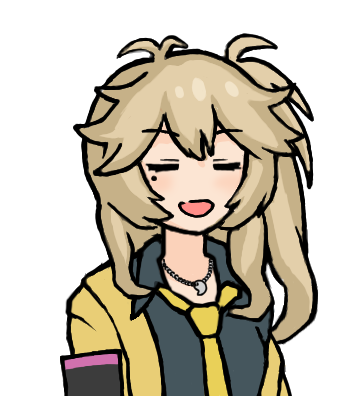
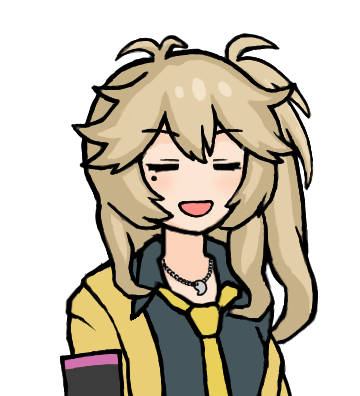
口の開閉を音量に合わせるよう改修した

diff --git a/funcs/audio.py b/funcs/audio.py
@@ -2,7 +2,8 @@ import requests
 import json
 from retry import retry
 from pydub import AudioSegment
-from funcs import SPK, get_wav_filename, prepare_serifu, file_to_hash
+from funcs import SPF, MOUTH_OPEN_RATIO, \
+    get_wav_filename, prepare_serifu, file_to_hash
 import os
 import math
 
@@ -59,11 +60,11 @@ class AudioGenerator:
     def generate(self):
         """各場面の台詞を wav に出力し全体を通した mp3 を出力しておきます
         """
-        komas = []  # 各場面の「有音コマ数、無音コマ数」を格納しておく
+        durations = []
         audio_concat = None
         for shot in self.shots:
-            komasu = 0
-            silent_komasu = 0
+            voice_durations = []
+            silent_duration = 0
             audio = None
             serifu_ = prepare_serifu(shot['serifu'], flag='v')
 
@@ -82,16 +83,33 @@ class AudioGenerator:
                 else:
                     print('音声合成済みです: ', shot['speaker'], shot['serifu'][:10])
                 audio = AudioSegment.from_wav(out_file)
-                komasu = math.ceil(audio.duration_seconds / SPK)
-                adjust_duration = komasu * SPK - audio.duration_seconds
+                komasu_ = math.ceil(audio.duration_seconds / SPF)
+                adjust_duration = komasu_ * SPF - audio.duration_seconds
                 audio += AudioSegment.silent(duration=adjust_duration * 1000)
+
+                volumes = []
+                for i_koma in range(komasu_):
+                    seg = audio[(i_koma * SPF * 1000):((i_koma + 1) * SPF * 1000)]
+                    volumes.append(seg.rms)
+                threshold = list(reversed(sorted(volumes)))[int(MOUTH_OPEN_RATIO * komasu_)]
+                last_mouth = -1
+                for i_koma in range(komasu_):
+                    mouth = 1 if (volumes[i_koma] > threshold) else 0
+                    if mouth != last_mouth:
+                        voice_durations.append((mouth, SPF))
+                    else:
+                        last = voice_durations.pop(-1)
+                        voice_durations.append((mouth, last[1] + SPF))
+                    last_mouth = mouth
+
             if shot['silence'] > 0:  # セリフ後無音秒数があれば無音を足す
-                silent_komasu = math.ceil(float(shot['silence']) / SPK)
+                silent_komasu = math.ceil(float(shot['silence']) / SPF)
+                silent_duration = silent_komasu * SPF
                 if audio is None:
-                    audio = AudioSegment.silent(duration=silent_komasu * SPK * 1000)
+                    audio = AudioSegment.silent(duration=silent_duration * 1000)
                 else:
-                    audio += AudioSegment.silent(duration=silent_komasu * SPK * 1000)
-            komas.append((komasu, silent_komasu))
+                    audio += AudioSegment.silent(duration=silent_duration * 1000)
+            durations.append((voice_durations, silent_duration))
             if audio_concat is None:
                 audio_concat = audio
             else:
@@ -110,4 +128,4 @@ class AudioGenerator:
             audio.export(mp3_file_with_bgm, format='mp3')
             mp3_file = mp3_file_with_bgm
 
-        return mp3_file, komas
+        return mp3_file, durations

diff --git a/funcs/image.py b/funcs/image.py
@@ -52,14 +52,14 @@ class ImageGenerator:
         img_ = img_.resize(size_new)
         img.paste(img_, coord.copy(), img_)  # 座標はコピーしないと変更される
 
-    def _paste_character(self, img, chara_id, mode, mouse=0):
+    def _paste_character(self, img, chara_id, mode, mouth=0):
         """ 背景画像に立ち絵を貼り付けます
         """
         character_image = self.character_images.get(chara_id)
         if character_image is None:
             print(f'[WARNING] ID:{chara_id} の立ち絵が設定されていません')
             return
-        self._paste(img, character_image[mode][mouse],
+        self._paste(img, character_image[mode][mouth],
                     character_image['scale'],
                     character_image['coordinate'])
 
@@ -78,7 +78,7 @@ class ImageGenerator:
         # その場面で必要な画像ファイル名を取得します
         filenames = get_image_filenames(self.out_dir_intermediate, shot,
             self.serifu_text_settings['display'])
-        for speaker, filename in filenames:
+        for i_file, filename in enumerate(filenames):
             # 既にあればスキップします
             if (not regenerate) and os.path.isfile(filename):
                 continue
@@ -90,8 +90,10 @@ class ImageGenerator:
                 self._paste(img, front_img, coord=shot['front_img_coordinate'])
             # キャラクターがいれば立ち絵を貼ります
             for chara_id, mode in shot['characters'].items():
-                mouse = 1 if (chara_id == str(speaker)) else 0
-                self._paste_character(img, chara_id, mode, mouse)
+                mouth = 0
+                if (i_file == 1) and (chara_id == str(shot['speaker'])):
+                    mouth = 1
+                self._paste_character(img, chara_id, mode, mouth)
             # セリフを表示する設定であってセリフがあれば貼ります
             if self.serifu_text_settings['display'] and shot['serifu'] != '':
                 self._add_serifu_text(img, shot['serifu'], shot['speaker'])

diff --git a/funcs/movie.py b/funcs/movie.py
@@ -1,5 +1,5 @@
 from moviepy.editor import ImageClip, concatenate_videoclips, VideoFileClip
-from funcs import get_image_filenames, SPK, format_duration
+from funcs import FPS, get_image_filenames, format_duration
 
 
 class MovieGenerator:
@@ -9,24 +9,23 @@ class MovieGenerator:
         self.serifu_text_settings = storyboard['serifu_text_settings']
         self.shots = storyboard['shots']
 
-    def generate(self, komas, mp3_file):
+    def generate(self, durations, mp3_file):
         # 各場面のコマ数に応じて動画クリップを作成していく
         clips = []
-        for (koma, shot) in zip(komas, self.shots):
+        for (duration, shot) in zip(durations, self.shots):
             img_files = get_image_filenames(self.out_dir_intermediate, shot,
                 self.serifu_text_settings['display'])
-            if koma[0] > 0:
-                for i_koma in range(koma[0]):
-                    img_file = img_files[(i_koma+1) % 2][1]
-                    clip = ImageClip(img_file).set_duration(format_duration(SPK))
+            if len(duration[0]) > 0:
+                for d_ in duration[0]:
+                    img_file = img_files[d_[0]]
+                    clip = ImageClip(img_file).set_duration(format_duration(d_[1]))
                     clips.append(clip)
-            if koma[1] > 0:
-                duration = SPK * koma[1]
-                clip = ImageClip(img_files[0][1]).set_duration(format_duration(duration))
+            if duration[1] > 0:
+                clip = ImageClip(img_files[0]).set_duration(format_duration(duration[1]))
                 clips.append(clip)
 
         # mp4 に出力する
         video = concatenate_videoclips(clips)
         print(f'動画の解像度: {video.size}')
         print(f'動画の再生時間: {video.duration}')
-        video.write_videofile(f'{self.out_dir}out.mp4', fps=24, audio=mp3_file)
+        video.write_videofile(f'{self.out_dir}out.mp4', fps=FPS, audio=mp3_file)

diff --git a/funcs/__init__.py b/funcs/__init__.py
@@ -3,9 +3,17 @@ import math
 import re
 
 
-# moviepy に浮動小数バグがあるので 1/2^n 秒を時間の最小単位とする
+FPS = 24  # Seconds Per Frame
+SPF = 1.0 / float(FPS)  # 0.125  # Frames Per Second
+# SPF は各場面をフレーム単位に切り上げるためにつかう
+# フレーム単位で口を開閉するのでそれにもつかう
+# 各場面を 1 / 2^n 秒単位にしないとバグると思っていたが
+# 1 / 24 でも OK だったので思い込みだったかもしれない
+# 動画出力時に IndexError: list index out of range が出たら SPF を戻してみること
 # https://github.com/Zulko/moviepy/issues/646
-SPK = 0.125  # Seconds Per Koma
+
+# セリフ音声を SPF で区切ったコマのうち音量が大きい何割で口を開くか
+MOUTH_OPEN_RATIO = 0.5
 
 
 def str_to_hash(s):
@@ -70,10 +78,11 @@ def get_image_filenames(out_dir_intermediate, shot, display_serifu):
     if front_img != '':
         filebody += '_' + file_to_hash(front_img)
         filebody += '_' + list_to_str(shot['front_img_coordinate'])
-    filenames = [(-1, filebody + '.png')]
-    speaker = shot['speaker']
-    if speaker > -1:  # 話者がいる場面にいは口開き版画像も必要
-        filenames.append((speaker, filebody + f'_{speaker}.png'))
+    filenames = [filebody + '.png']
+    serifu_ = prepare_serifu(shot['serifu'], flag='v')
+    if serifu_ != '':  # 有声セリフがある場面には口開き版画像も必要
+        speaker = shot['speaker']
+        filenames.append(filebody + f'_{speaker}.png')
     return filenames
 
 

diff --git a/run.py b/run.py
@@ -71,11 +71,11 @@ def main():
 
     # 各場面の台詞 wav を生成し全体を通した mp3 を出力します
     if mode in [2, 3]:
-        mp3_file, komas = ag.generate()
+        mp3_file, durations = ag.generate()
 
     # 動画を生成します
     if mode == 3:
-        mg.generate(komas, mp3_file)
+        mg.generate(durations, mp3_file)
 
 
 if __name__ == '__main__':
